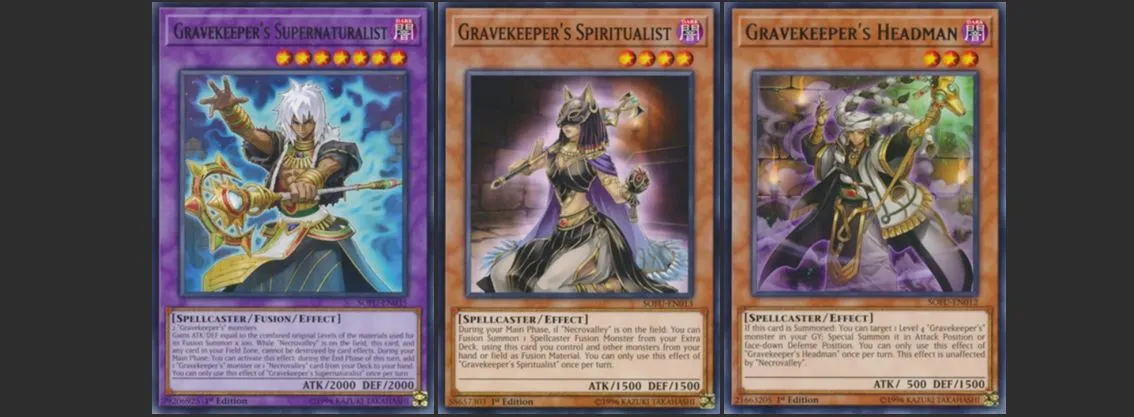
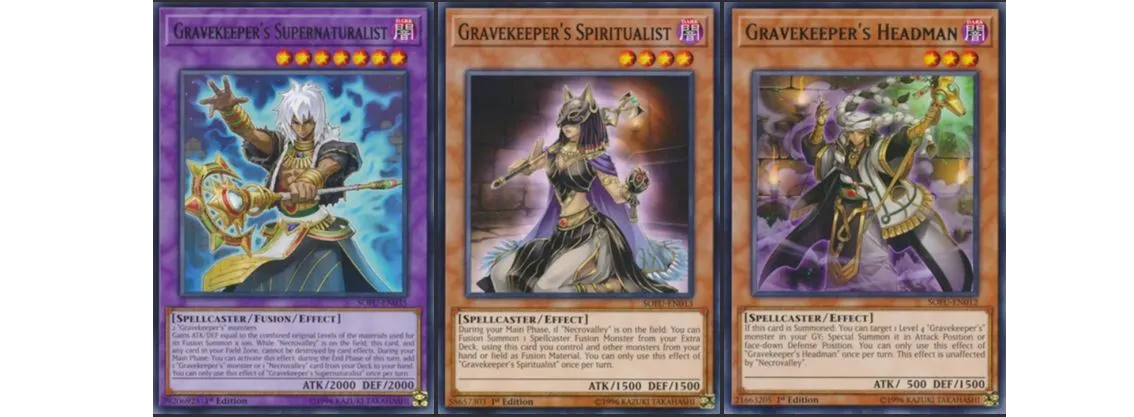
Make image transparent instead of giving it colored background

Changed region(s): [[0.8642, 0.0, 1.0, 1.0], [0.0, 0.0, 0.1543, 1.0]]

diff --git a/_posts/gaming/2019-08-19-yugioh-4-fun-non-meta-decks.md b/_posts/gaming/2019-08-19-yugioh-4-fun-non-meta-decks.md
@@ -59,7 +59,7 @@ But the archetype is even better now. About a year ago, the fusion spellcaster *
 This came along with two more support cards, **Gravekeeper's Spiritualist** and **Gravekeeper's Headman**:
 
 <figure>
-    {% include posts/picture.html img="gravekeepers-support" alt="New Gravekeeper's support cards." %}
+    {% include posts/picture.html img="gravekeepers-support" extension="png" alt="New Gravekeeper's support cards." %}
     <figcaption>All images assembled from the Yu-Gi-Oh! FANDOM wiki.</figcaption>
 </figure>
 
